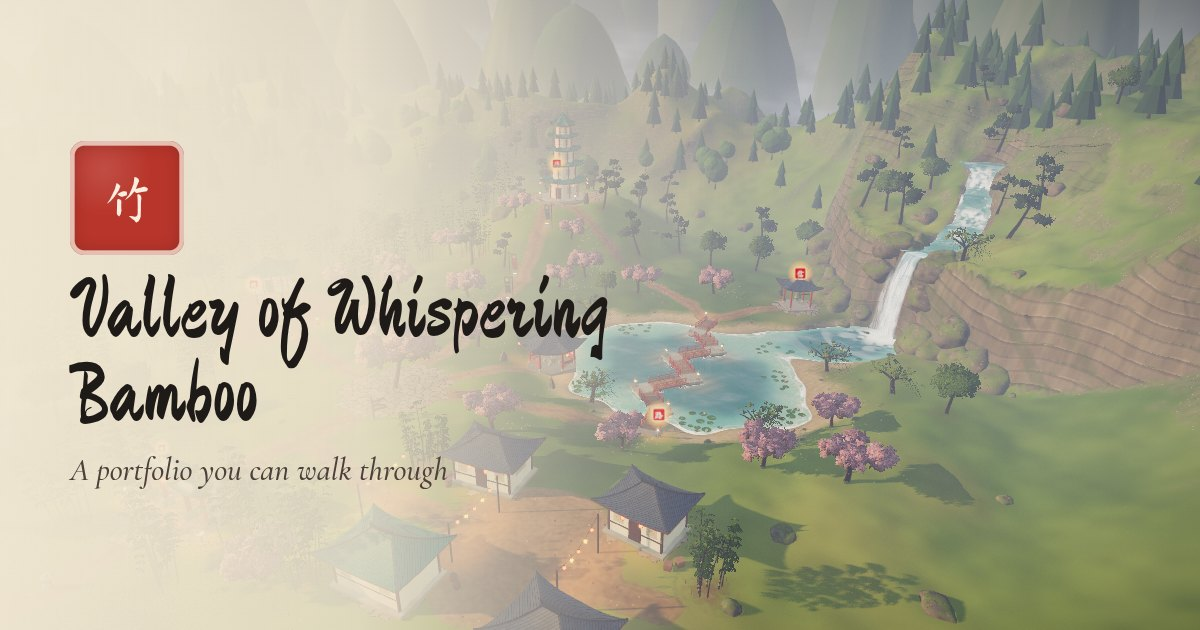
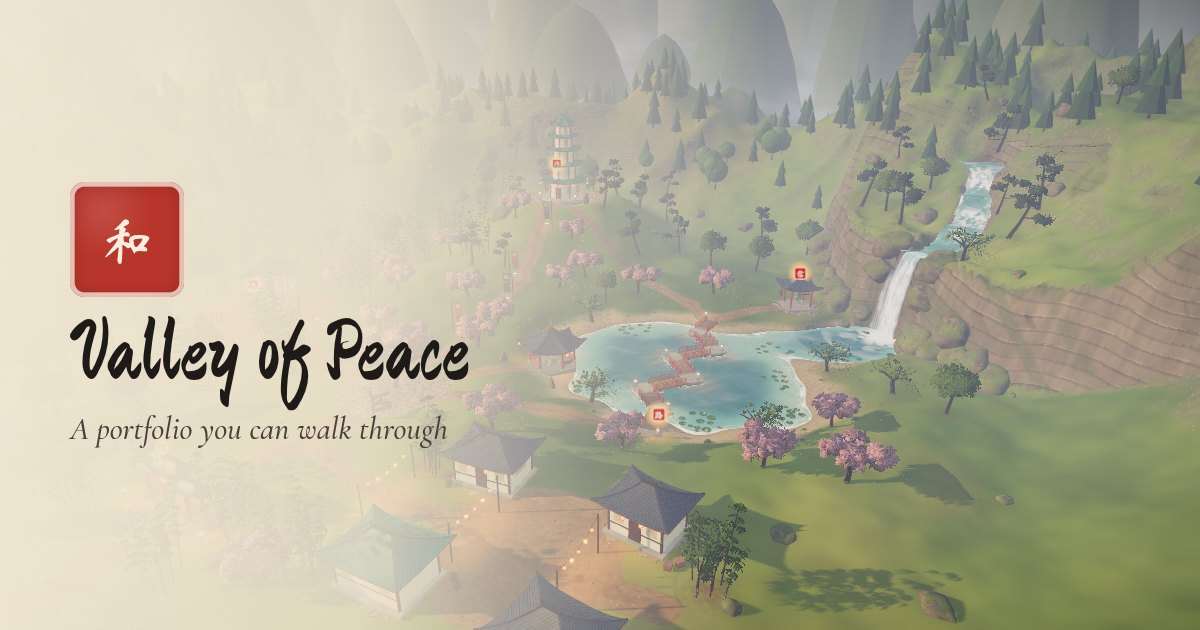
feat: rename the portfolio to Valley of Peace
- Title screen, corner badge, tour and page view read "Valley of Peace"
- The gate's signboard reads 和平谷 and the red seal shows 和 (peace)
- The seal's character is part of the content file (site.seal); the title
  screen's name and seal are written into index.html from the content
- 和 and 平 added to the brush font subset
- Link preview, README tour frame, package name and docs updated; the README
  credits the name as a fan's nod to the Kung Fu Panda films

diff --git a/tools/portfolio-html.ts b/tools/portfolio-html.ts
@@ -25,7 +25,8 @@ function pageMeta(content: PortfolioContent): { title: string; description: stri
 
 /**
  * Writes the content into the index.html template: `<title>`, meta description, Open
- * Graph / Twitter tags and the `<noscript>` page. Pure, so it can be unit-tested.
+ * Graph / Twitter tags, the title screen's name and seal, and the `<noscript>` page.
+ * Pure, so it can be unit-tested.
  */
 export function renderIndexHtml(html: string, mod: typeof Prerender, siteUrl?: string): string {
   const { portfolio: content, classicHtml, esc } = mod;
@@ -57,17 +58,28 @@ export function renderIndexHtml(html: string, mod: typeof Prerender, siteUrl?: s
   });
   // Replacer functions, not strings: content may contain "$&", "$'" and friends, which
   // String.replace would otherwise expand.
-  return html
-    .replace(/<title>[\s\S]*?<\/title>/, () => `<title>${esc(title)}</title>`)
-    .replace(
-      /<meta\s+name="description"[\s\S]*?\/>/,
-      () => `<meta name="description" content="${esc(description)}" />`,
-    )
-    .replace('</head>', () => `${head}\n  </head>`)
-    .replace(
-      /<noscript>\s*<div class="noscript">[\s\S]*?<\/noscript>/,
-      () => `<noscript><div class="classic classic--static">${page}</div></noscript>`,
-    );
+  return (
+    html
+      .replace(/<title>[\s\S]*?<\/title>/, () => `<title>${esc(title)}</title>`)
+      .replace(
+        /<meta\s+name="description"[\s\S]*?\/>/,
+        () => `<meta name="description" content="${esc(description)}" />`,
+      )
+      .replace('</head>', () => `${head}\n  </head>`)
+      // the title screen shows before any script runs
+      .replace(
+        /(<h1 id="loader-title" class="loader__title">)[\s\S]*?(<\/h1>)/,
+        (_m, open: string, close: string) => `${open}${esc(content.site.title)}${close}`,
+      )
+      .replace(
+        /(<div class="seal seal--lg loader__seal" aria-hidden="true">)[\s\S]*?(<\/div>)/,
+        (_m, open: string, close: string) => `${open}${esc(content.site.seal)}${close}`,
+      )
+      .replace(
+        /<noscript>\s*<div class="noscript">[\s\S]*?<\/noscript>/,
+        () => `<noscript><div class="classic classic--static">${page}</div></noscript>`,
+      )
+  );
 }
 
 /**

diff --git a/src/ui/TourOverlay.ts b/src/ui/TourOverlay.ts
@@ -51,14 +51,14 @@ export class TourOverlay extends Emitter<TourOverlayEvents> {
   private readingEl: HTMLElement;
   private idleTimer = 0;
 
-  constructor(root: HTMLElement, siteTitle: string) {
+  constructor(root: HTMLElement, site: { title: string; seal: string }) {
     super();
     this.el = document.createElement('div');
     this.el.className = 'tour';
     this.el.innerHTML = `
       <div class="tour__bar tour__bar--top">
         <div class="tour__brand"><span class="seal" aria-hidden="true">影</span>
-          <span>${esc(siteTitle)} <em>· the tour</em></span></div>
+          <span>${esc(site.title)} <em>· the tour</em></span></div>
         <div class="tour__controls" role="group" aria-label="Tour controls">
           <button type="button" class="tour__btn" data-act="pause" aria-label="Pause the tour (Space)" title="Pause (Space)">${ICONS.pause}</button>
           <button type="button" class="tour__btn" data-act="next" aria-label="Skip to the next chapter (Enter)" title="Next chapter (Enter)">${ICONS.next}</button>
@@ -91,7 +91,7 @@ export class TourOverlay extends Emitter<TourOverlayEvents> {
       <div class="tour__fade" aria-hidden="true"></div>
       <div class="tour__end" role="dialog" aria-modal="false" aria-labelledby="tour-end-title">
         <div class="tour__end-card">
-          <span class="seal seal--lg" aria-hidden="true">竹</span>
+          <span class="seal seal--lg" aria-hidden="true">${esc(site.seal)}</span>
           <h2 id="tour-end-title">Thank you for watching</h2>
           <p class="tour__end-owner"></p>
           <div class="tour__end-actions">

diff --git a/src/content/portfolio.ts b/src/content/portfolio.ts
@@ -16,11 +16,12 @@ import type { PortfolioContent } from './types';
  */
 export const portfolio: PortfolioContent = {
   site: {
-    title: 'Valley of Whispering Bamboo',
-    gateGlyphs: '竹语谷',
+    title: 'Valley of Peace',
+    gateGlyphs: '和平谷', // "Valley of Peace"
+    seal: '和', // peace, harmony
     tagline: 'A portfolio you can walk through',
-    // url: 'https://[you].github.io/valley-of-whispering-bamboo/', // set by the deploy workflow
-    sourceUrl: '', // TODO: e.g. 'https://github.com/[you]/valley-of-whispering-bamboo'
+    // url: 'https://[you].github.io/', // set by the deploy workflow
+    sourceUrl: '', // TODO: e.g. 'https://github.com/[you]/[you].github.io'
   },
 
   owner: {
@@ -103,7 +104,7 @@ export const portfolio: PortfolioContent = {
     items: [
       {
         id: 'valley',
-        title: 'Valley of Whispering Bamboo',
+        title: 'Valley of Peace',
         bannerTitle: 'This Valley',
         year: '2026',
         summary:
@@ -113,9 +114,7 @@ export const portfolio: PortfolioContent = {
           'Built with three.js, TypeScript and custom GLSL shaders, with a kinematic character controller and procedural animation.',
         ],
         tech: ['three.js', 'TypeScript', 'GLSL', 'Web Audio', 'Vite'],
-        links: [
-          { label: 'Source code', url: 'https://github.com/[you]/valley-of-whispering-bamboo' },
-        ], // TODO
+        links: [{ label: 'Source code', url: 'https://github.com/[you]/[you].github.io' }], // TODO
       },
       {
         id: 'renderer',

diff --git a/tests/portfolio-html.test.ts b/tests/portfolio-html.test.ts
@@ -15,7 +15,7 @@ function withContent(patch: (c: PortfolioContent) => void): typeof prerender {
 describe('index.html generation', () => {
   it('writes title, description and link-preview tags', () => {
     const html = renderIndexHtml(template, prerender);
-    expect(html).toContain('<title>Valley of Whispering Bamboo · An explorable portfolio</title>');
+    expect(html).toContain('<title>Valley of Peace · An explorable portfolio</title>');
     expect(html).toContain('<meta property="og:image" content="og-image.jpg" />');
     expect(html).toContain('<meta name="twitter:card" content="summary_large_image" />');
     expect(html).not.toContain('og:url');
@@ -32,6 +32,16 @@ describe('index.html generation', () => {
     expect(html.match(/<noscript><div class="classic classic--static">/g)).toHaveLength(1);
     expect(html).toContain('id="classic-projects"');
     expect(html).toContain('<script type="module" src="/src/main.ts"></script>');
+  });
+
+  it('puts the name and the seal on the title screen', () => {
+    const mod = withContent((c) => {
+      c.site.title = 'Valley & Hills';
+      c.site.seal = '山';
+    });
+    const html = renderIndexHtml(template, mod);
+    expect(html).toContain('<h1 id="loader-title" class="loader__title">Valley &amp; Hills</h1>');
+    expect(html).toContain('<div class="seal seal--lg loader__seal" aria-hidden="true">山</div>');
   });
 
   it('keeps dollar signs from the content literally', () => {

diff --git a/index.html b/index.html
@@ -3,7 +3,7 @@
   <head>
     <meta charset="UTF-8" />
     <meta name="viewport" content="width=device-width, initial-scale=1, viewport-fit=cover" />
-    <title>Valley of Whispering Bamboo · An explorable portfolio</title>
+    <title>Valley of Peace · An explorable portfolio</title>
     <meta
       name="description"
       content="An explorable 3D portfolio: guide a panda through a misty valley of bamboo, blossoms and pagodas to discover projects, skills and stories."
@@ -58,8 +58,8 @@
         />
       </svg>
       <div class="loader__content">
-        <div class="seal seal--lg" aria-hidden="true">竹</div>
-        <h1 id="loader-title" class="loader__title">Valley of Whispering Bamboo</h1>
+        <div class="seal seal--lg loader__seal" aria-hidden="true">和</div>
+        <h1 id="loader-title" class="loader__title">Valley of Peace</h1>
         <p class="loader__tagline">A portfolio you can walk through</p>
         <p class="loader__owner"></p>
         <div class="loader__progress" aria-hidden="true"><div class="loader__brush"></div></div>

diff --git a/src/content/types.ts b/src/content/types.ts
@@ -46,9 +46,14 @@ export interface PortfolioContent {
     title: string;
     /** Chinese characters for the gate signboard (must be in the font subset) */
     gateGlyphs: string;
+    /**
+     * The character on the red seal: title screen, corner badge, closing card, page view
+     * and link preview (one character; must be in the font subset)
+     */
+    seal: string;
     tagline: string;
     /**
-     * Public address of the site, e.g. "https://you.github.io/valley-of-whispering-bamboo/".
+     * Public address of the site, e.g. "https://you.github.io/".
      * Used for link previews (Open Graph). The deploy workflow fills it in automatically.
      */
     url?: string;

diff --git a/src/ui/Loader.ts b/src/ui/Loader.ts
@@ -24,6 +24,8 @@ export class Loader {
     this.classicBtn = el.querySelector('.loader__classic')!;
     this.tourBtn = el.querySelector('.loader__tour')!;
     el.querySelector('.loader__title')!.textContent = content.site.title;
+    const seal = el.querySelector('.loader__seal');
+    if (seal) seal.textContent = content.site.seal;
     el.querySelector('.loader__tagline')!.textContent = content.site.tagline;
     if (window.matchMedia?.('(pointer: coarse)').matches) {
       this.hint.textContent = 'Sound on · Joystick to walk · Headphones recommended';

diff --git a/src/ui/classicHtml.ts b/src/ui/classicHtml.ts
@@ -19,7 +19,7 @@ export function classicHtml(content: PortfolioContent, o: ClassicHtmlOptions): s
   const sections = SECTIONS.filter((s) => s.id !== 'welcome');
   return `
     <header class="classic__hero">
-      <span class="seal seal--lg" aria-hidden="true">竹</span>
+      <span class="seal seal--lg" aria-hidden="true">${esc(content.site.seal)}</span>
       <h1>${esc(named ? content.owner.name : content.site.title)}</h1>
       <p class="classic__role">${esc(content.owner.role)}</p>
       <p class="classic__intro">${esc(content.owner.intro)}</p>

diff --git a/src/tour/Tour.ts b/src/tour/Tour.ts
@@ -141,7 +141,7 @@ export class Tour extends Emitter<{ start: void; end: TourEnd }> {
     this.autopilot = new Autopilot(app.controller);
     this.director = new Director(app.rig, (x, z) => app.terrain.heightAt(x, z));
     this.director.reducedMotion = app.rig.reducedMotion;
-    this.overlay = new TourOverlay(root, app.content.site.title);
+    this.overlay = new TourOverlay(root, app.content.site);
     const o = this.overlay;
     o.on('pause', () => this.togglePause());
     o.on('next', () => this.next());

diff --git a/src/app/App.ts b/src/app/App.ts
@@ -132,7 +132,10 @@ export class App extends Emitter<AppEvents> {
     // Canvas textures (signboards, banners, labels) need the brush font loaded first.
     try {
       await Promise.all([
-        document.fonts.load("64px 'Brush'", this.content.site.gateGlyphs + 'Aa一'),
+        document.fonts.load(
+          "64px 'Brush'",
+          this.content.site.gateGlyphs + this.content.site.seal + 'Aa一',
+        ),
         document.fonts.load("700 32px 'Cormorant Garamond'"),
       ]);
     } catch {

diff --git a/src/ui/Hud.ts b/src/ui/Hud.ts
@@ -42,7 +42,7 @@ export class Hud extends Emitter<HudEvents> {
     this.el.className = 'hud';
     this.el.innerHTML = `
       <div class="hud__brand">
-        <span class="seal" aria-hidden="true">竹</span>
+        <span class="seal" aria-hidden="true">${esc(content.site.seal)}</span>
         <div><span class="hud__title">${esc(content.site.title)}</span>
         ${named ? `<span class="hud__owner">${esc(content.owner.name)}</span>` : ''}</div>
       </div>

diff --git a/scripts/subset-font.py b/scripts/subset-font.py
@@ -21,7 +21,7 @@ from fontTools import subset
 
 LATIN = "".join(chr(c) for c in range(0x20, 0x7F)) + "·—–’‘“”…•×"
 # Decorative characters used by the UI (seals, signboards, numbering).
-CJK = "竹语谷迎我技路作信悟山水风卷一二三四五六七八九十欢静心道福禅荣光桥塔亭钟门拳"
+CJK = "和平竹语谷迎我技路作信悟山水风卷一二三四五六七八九十欢静心道福禅荣光桥塔亭钟门拳"
 
 def main() -> None:
     if len(sys.argv) < 2:
